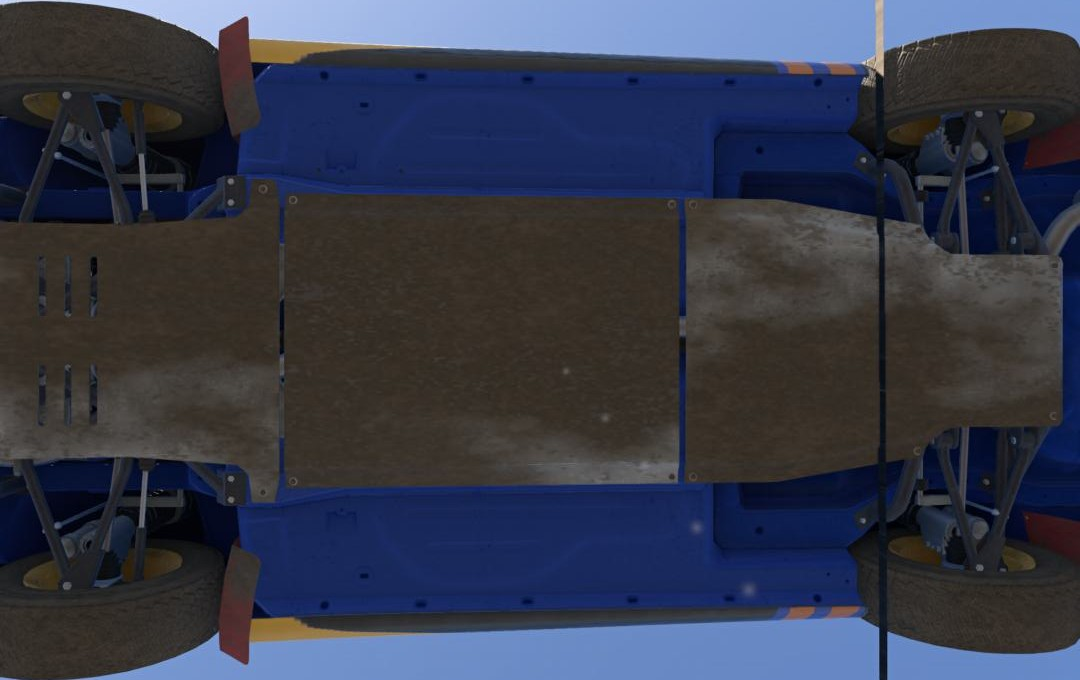
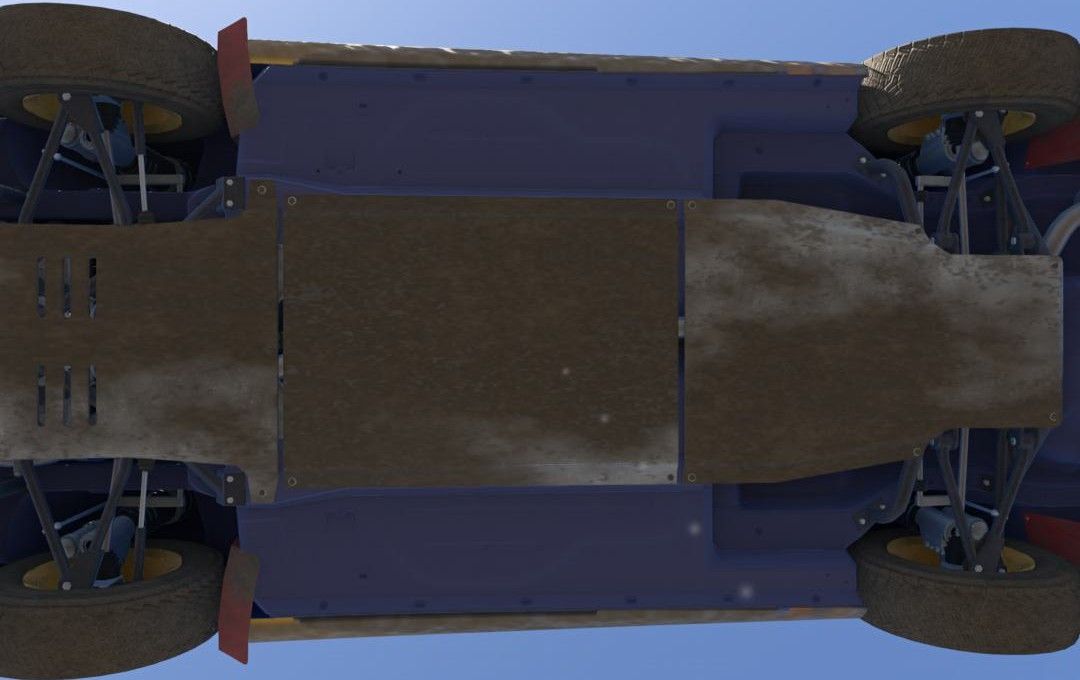
Floor film limited to four of six steps by default; docs and showcase for floor mud and opaque soil

diff --git a/TODO.md b/TODO.md
@@ -102,11 +102,23 @@ Sunburst rally car; wheel binding was also checked on eleven other vehicles.
   exterior panels (see the next item), and the abrasion overlay is grey on a
   grey plate. Needs a car with painted bumper and sill undersides in view, and
   probably a stronger abrasion look.
-- [x] **Why the painted floor stays clean.** A car's skin UV layout holds
-  exterior panels only (checked against `sunburst2_skin_UVs.png`), so nothing
-  projected at the floor pan can show. Underside soil now goes under the sills
-  instead, where a thin slab paints the sill's underside and bottom edge; the
-  undercarriage material overlay covers the rest.
+- [x] **Mud on the painted floor.** A car's skin UV layout holds exterior panels
+  only (checked against `sunburst2_skin_UVs.png`), so no projection reaches the
+  floor pan. Every face outside the layout reads one texel of the canvas, its
+  bottom-left corner, and a UV-space texture fill of that corner does reach it:
+  the floor now gets an even film that steps up as the wheels roll through soil
+  (`soil_floor_fill_1..6`, `tools/generate_floor_fill.py`).
+- [ ] **The floor film is shared.** That one texel is read by everything else
+  outside the skin layout too: on the Sunburst rally car the window frames,
+  pillars and the top of the rear wing. So the film stops at four of its six
+  steps by default, about half strength; `setSoilExtras(nil, nil, nil, 6)`
+  lets it go to 0.72, `false` turns it off. One even colour, no lumps. Checked
+  on the Sunburst only: which faces share the texel on other cars is unknown.
+- [x] **Mud was half transparent.** The soil stage takes its opacity from the
+  soil canvas red channel, so brown mud at r = 0.43 was 43 % opaque at best.
+  Soil is now baked at full red with its brightness in the stage's colour
+  factor (`bodyAdapter soilTone`). The same limit still holds for the damage
+  stage ("Weak dark marks" above).
 - [ ] **Undercarriage parts are found by name** (`mechanical`, `skidplate`,
   `exhaust`, `suspension`, `rallyparts`, `runningboard`, `mudflap` ...). The
   ETK 800 and the city bus have no material that matches, so only their wheels
@@ -117,9 +129,6 @@ Sunburst rally car; wheel binding was also checked on eleven other vehicles.
   hand; Gridmap's mud strip is too shallow to set it. Sill and underside
   heights now come from the car's own rest pose (Sunburst 0.26 m, D-Series
   0.41 m).
-- [ ] **Mud on the body is thin at low speed.** Ten seconds through the mud
-  strip at 5 m/s leaves speckle on the arches and little on the doors, while
-  the tyres are caked. The throw grows with speed; the amount may want a boost.
 - [ ] **Ground marks use the car's base paint**, so a liveried panel leaves the
   colour under its livery. Marks are also laid on loose ground (dirt, sand,
   gravel), where paint transfer is unlikely.
@@ -167,7 +176,7 @@ Sunburst rally car; wheel binding was also checked on eleven other vehicles.
 
 ## Tech debt
 
-- [ ] **No CI.** The 492-check harness and preflight only run locally
+- [ ] **No CI.** The 498-check harness and preflight only run locally
   (`python tools/package.py`). A GitHub Action with Lua 5.1 would guard `master`.
 - [ ] **`paint.lua` is near Lua's local limit.** About 3,500 lines and 163
   top-level locals; Lua 5.1 caps a function at 200. Split the scheduler, soil

diff --git a/README.md b/README.md
@@ -118,16 +118,17 @@ go white.
 <table>
   <tr>
     <td width="50%"><img src="docs/showcase/wheels-mud.jpg" alt="Mud caked on the tyres and dusting the rims of a rally car parked in a mud pit"></td>
-    <td width="50%"><img src="docs/showcase/underside-mud.jpg" alt="The underside of the same car: skid plate, mud flaps and tyres caked in mud, with a muddy strip under each sill"></td>
+    <td width="50%"><img src="docs/showcase/underside-mud.jpg" alt="The underside of the same car: skid plate, mud flaps and tyres caked in mud, and a film of mud over the painted floor"></td>
   </tr>
   <tr>
     <td valign="top"><b>Wheels and tyres get dirty.</b> Tyres cake up fast, rims take a lighter dusting, and both rinse off in water with the rest of the car. Drag a wheel along on its side and the rim gets scuffed.</td>
-    <td valign="top"><b>So does the underside.</b> Skid plates, suspension, exhaust, mud flaps and running boards pick up mud as you drive, and it cakes under the sills. In deep mud it builds up along them too. Bottom out and the belly gets scuffed.</td>
+    <td valign="top"><b>So does the underside.</b> Skid plates, suspension, exhaust, mud flaps and running boards pick up mud as you drive, the painted floor gets a film of it, and it cakes under the sills. In deep mud it builds up along them too. Bottom out and the belly gets scuffed.</td>
   </tr>
 </table>
 
-Mud is also darker now. It used to be the colour of the dry ground, which was
-hard to see on bright paint. Wet mud is darker than the dirt it came from.
+Mud is also darker and thicker now. It used to be the colour of the dry ground
+and half see-through, which was hard to see on bright paint. Wet mud is darker
+than the dirt it came from, and it covers what it lands on.
 
 ### You leave paint behind
 

diff --git a/docs/known-issues.md b/docs/known-issues.md
@@ -29,10 +29,11 @@ affect you:
 - **First mud contact hitch.** The first terrain-texture read for soil tint takes
   about 99 ms; later lookups are cached (~0.03 ms).
 - **Snow fling, dirty wheels, underside and ground paint are brand new.** Driven
-  on Vulkan on a few cars. The painted floor pan under the car stays clean (the
-  game's skin layout has no floor in it); the mud underneath lands on the skid
-  plates, suspension, exhaust, mud flaps and under the sills. Belly scrapes are
-  counted but barely visible. A car you switch into, rather than spawn, keeps
+  on Vulkan on a few cars. The mud film on the painted floor is one even colour,
+  and the window frames, pillars and rear wing top of the Sunburst rally car
+  pick up the same film, so it stops at about half strength
+  (`scratches_paint.setSoilExtras(nil, nil, nil, 6)` in game-engine Lua for
+  more, `false` for none). Belly scrapes are counted but barely visible. A car you switch into, rather than spawn, keeps
   clean wheels until you reload it. See
   [TODO](../TODO.md#needs-live-verification).
 - **Marks don't persist.** Reset, vehicle switch, reload and editor use clear all

diff --git a/CHANGELOG.md b/CHANGELOG.md
@@ -33,6 +33,14 @@ render the same; worst bake there 19.6 ms.
   dry-ground colour was hard to see on bright paint.
 - Underside soil is projected under the sills, not at the floor pan: a car's
   skin UV layout has no floor in it, so nothing showed there.
+- **Mud on the painted floor.** Faces outside the skin layout read one corner
+  texel of the canvas; a UV-space texture fill of that corner gives the floor a
+  film that steps up with the soil rolled through (`soil_floor_fill_1..6`,
+  `scratches_paint.soilFill`). The window frames and wing top of the Sunburst
+  rally car share that texel, so it stops at about half strength by default.
+- **Opaque mud.** Soil opacity is the soil canvas red channel, so dark mud was
+  mostly transparent. Soil is baked at full red and the stage's colour factor
+  carries its brightness (`bodyAdapter soilTone`).
 - Fixed after a six-way code review of the above: wheel clones were all
   reloaded on any change (13 to 16 ms frames; now one clone at a time, only the
   ones that changed); a car replaced in place kept the previous car's wheel

diff --git a/docs/how-it-works.md b/docs/how-it-works.md
@@ -115,7 +115,7 @@ art/dynamicDecals/textures/                         # brush PNGs + .dynDecalText
 tools/package.py                                    # release zip builder + preflight
 tools/dev.py                                        # dev loop: deploy + hot-reload via BeamNG MCP
 tools/bench.py                                      # scripted crash scenarios + frame timing + screenshots
-tools/sim/*.lua                                     # headless mocked-engine harnesses (492 checks)
+tools/sim/*.lua                                     # headless mocked-engine harnesses (498 checks)
 tools/generate_*.py                                 # damage, brush, soil and soil-normal art generators
 tools/perf_*.py, tools/*_probe.py                   # performance cohorts, traces and live probes
 tools/make_showcase.py                              # rebuilds docs/showcase/ from docs/evidence/

diff --git a/docs/features.md b/docs/features.md
@@ -208,7 +208,7 @@ bakes, backlog, composites) and sliders for every threshold and limit. See
   the mod logs an error.
 - [`tools/bench.py`](../tools/bench.py) runs scripted crash scenarios with
   per-frame timing and five-angle screenshots.
-- [`tools/sim/harness.lua`](../tools/sim/harness.lua) has **492 headless checks**
+- [`tools/sim/harness.lua`](../tools/sim/harness.lua) has **498 headless checks**
   against mocked engine objects. No game is needed.
 - [`tools/package.py`](../tools/package.py) builds the release ZIP behind a syntax,
   stray-global, harness and brush-sidecar preflight.
